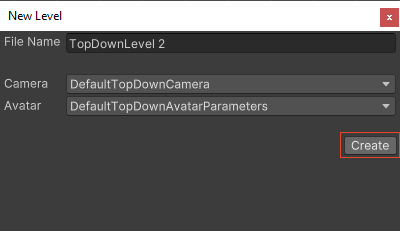
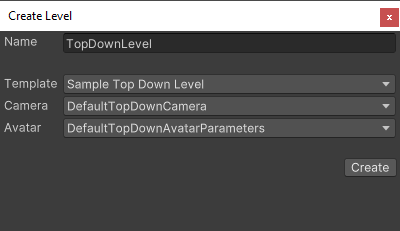
fixes and hover text test

diff --git a/src/import_sprites.md b/src/import_sprites.md
@@ -106,7 +106,7 @@ Property|Type|Function|Example
 
 ### Arrange the Props Collection
 
-You can always rearrange the Props for a better lisibility !
+You can always rearrange the Props for a better readability !
 
 ![props_collection_arrange.gif](./../media/import/props_collection_arrange.gif)
 
@@ -114,11 +114,15 @@ You can always rearrange the Props for a better lisibility !
 ### Apply the Props Collection
 Once you are satisfied with the parameters and settings, you can select **[Apply]** to close the window.
 
+![import_props_collection_location.png](./../media/import/import_props_collection_location.png)
+
+
+> 🐲 This is a **Props Collection**. Double-click this object in your Project window to edit your props again if necessary !
 
 ## Place Props on the map
 
-Quite simple with the **Asset Picker** ! 
+We have added a UI specifically to find and place props on the map. The UI is called the **[Asset Picker](./place_props.md)** ! 
 
 ![props_collection_place.gif](./../media/import/props_collection_place.gif)
 
-> 🐲 The subfolder where your **Props** are located in named after the spritesheet filename.
+> 🐲 The subfolder where your **Props** are located is named after the spritesheet filename you've imported.

diff --git a/src/new_map.md b/src/new_map.md
@@ -23,7 +23,8 @@ Map creation has a few properties :
 
 Property|Type|Function|Example
 --------|--------|--------|--------
-File Name|String|Name of the map. Will serve as a filename for the .scene file| "new_map" or "my map 001"
+Name|String|Name of the map. Will serve as a filename for the .scene file| "new_map" or "my map 001"
+Template|Enum|    Type of level you want to load    |Sample Top Down Level
 Camera|Enum|    Type of camera to use to render the map    |DefaultTopDownCamera
 Avatar|Enum|    Type of the playable character to instanciate on the map    |DefaultTopDownAvatarParameters
 

diff --git a/src/import_spritesheet.md b/src/import_spritesheet.md
@@ -93,7 +93,7 @@ Once you are OK, press **[Apply]** to validate your setup and move to the next U
 You can move sprites freely while holding left-click (like cards) to rearrange them as you like. With right-click on a sprite you can also :
 * FlipX (to perform an horizontal symetry)
 * FlipY (to perform a vertical symetry)
-* Delete (to remvoe the sprite)
+* Delete (to remove the sprite)
 
 ### Use an animation template
 

diff --git a/src/download.md b/src/download.md
@@ -43,6 +43,7 @@ Before runnig the download + installation, select the additionnal **[WebGL Build
 ![install_webgl.png](./../media/download/install_webgl.png)
 
 Once you have clicked **[Install]** you can see the download and installation progress in the **[Unity Hub]**.
+
 ![install_progress.png](./../media/download/install_progress.png)
 
 ## Download RPG Power Forge

diff --git a/src/collision.md b/src/collision.md
@@ -2,7 +2,8 @@
 
 This section covers collision ! Collision can be either :
 * Assign to tiles and autotiles.
-* Created from custom shapes in the **[Asset Picker]** window.
+* Assign to props.
+* Placed freely with custom shapes in the **[Asset Picker]** window.
 
 > 🐞 [Bug tracker here](https://trello.com/b/PIzgsYov/rpg-power-forge-road-map)
 

diff --git a/src/front_page.md b/src/front_page.md
@@ -37,3 +37,8 @@ Yes ! See below :
 - RPG Power Forge Music pack : *we're packaging it, be patient !*
 
 ![nostalgia_demo_1.jpg](./../media/front_page/nostalgia_demo_1.jpg)
+
+
+[id1]: ## "your hover text 2"
+This is a [hover text][id1] example.
+This is a [hover text](## "your hover text") example.
